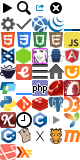
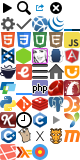
Add RequireJS documentation

Changed region(s): [[0.4, 0.875, 0.6, 1.0]]

diff --git a/assets/stylesheets/global/_icons.scss b/assets/stylesheets/global/_icons.scss
@@ -58,3 +58,4 @@
 ._icon-maxcdn:before        { background-position: -4rem -8rem; }
 ._icon-laravel:before       { background-position: 0 -9rem; }
 ._icon-haskell:before       { background-position: -1rem -9rem; }
+._icon-requirejs:before     { background-position: -2rem -9rem; }

diff --git a/assets/stylesheets/pages/_requirejs.scss b/assets/stylesheets/pages/_requirejs.scss
@@ -1,0 +1,10 @@
+._requirejs {
+  padding-left: 1rem;
+
+  h1, h2, h3, ul.index { margin-left: -1rem; }
+  h2 { @extend %block-heading; }
+  h3 { @extend %block-label, %label-blue; }
+  h4 { font-size: 1em; }
+
+  ul.index ul { margin: .5em 0; }
+}

diff --git a/assets/stylesheets/application.css.scss b/assets/stylesheets/application.css.scss
@@ -51,6 +51,7 @@
         'pages/postgres',
         'pages/rdoc',
         'pages/redis',
+        'pages/requirejs',
         'pages/rfc',
         'pages/sphinx',
         'pages/underscore',

diff --git a/lib/docs/filters/requirejs/entries.rb b/lib/docs/filters/requirejs/entries.rb
@@ -1,0 +1,35 @@
+module Docs
+  class Requirejs
+    class EntriesFilter < Docs::EntriesFilter
+      def get_name
+        at_css('h1').content
+      end
+
+      def get_type
+        'Guides'
+      end
+
+      def additional_entries
+        return [] unless root_page?
+
+        entries = []
+        type = nil
+
+        css('*').each do |node|
+          if node.name == 'h2'
+            type = node.content
+          elsif node.name == 'h3' || node.name == 'h4'
+            entries << [node.content, node['id'], type]
+          end
+        end
+
+        css('p[id^="config-"]').each do |node|
+          next if node['id'].include?('note')
+          entries << [node.at_css('strong').content, node['id'], 'Configuration Options']
+        end
+
+        entries
+      end
+    end
+  end
+end

diff --git a/lib/docs/scrapers/requirejs.rb b/lib/docs/scrapers/requirejs.rb
@@ -1,0 +1,29 @@
+module Docs
+  class Requirejs < UrlScraper
+    self.name = 'RequireJS'
+    self.type = 'requirejs'
+    self.version = '2.1.4'
+    self.base_url = 'http://requirejs.org/docs/'
+    self.root_path = 'api.html'
+    self.initial_paths = %w(
+      optimization.html
+      jquery.html
+      node.html
+      dojo.html
+      commonjs.html
+      plugins.html
+      why.html
+      whyamd.html)
+
+    html_filters.push 'requirejs/clean_html', 'requirejs/entries'
+
+    options[:container] = '#content'
+    options[:follow_links] = false
+    options[:only] = self.initial_paths
+
+    options[:attribution] = <<-HTML
+      &copy; 2010&ndash;2014 The Dojo Foundation<br>
+      Licensed under the MIT License.
+    HTML
+  end
+end

diff --git a/lib/docs/filters/requirejs/clean_html.rb b/lib/docs/filters/requirejs/clean_html.rb
@@ -1,0 +1,22 @@
+module Docs
+  class Requirejs
+    class CleanHtmlFilter < Filter
+      def call
+        css('.sectionMark', '.hbox > .sect').remove
+        css('h1 + .note').remove if root_page?
+
+        css('.section', 'pre > code').each do |node|
+          node.before(node.children).remove
+        end
+
+        css('h2', 'h3', 'h4').each do |node|
+          next unless link = node.at_css('a[name]')
+          node['id'] = link['name']
+          link.before(link.children).remove
+        end
+
+        doc
+      end
+    end
+  end
+end
